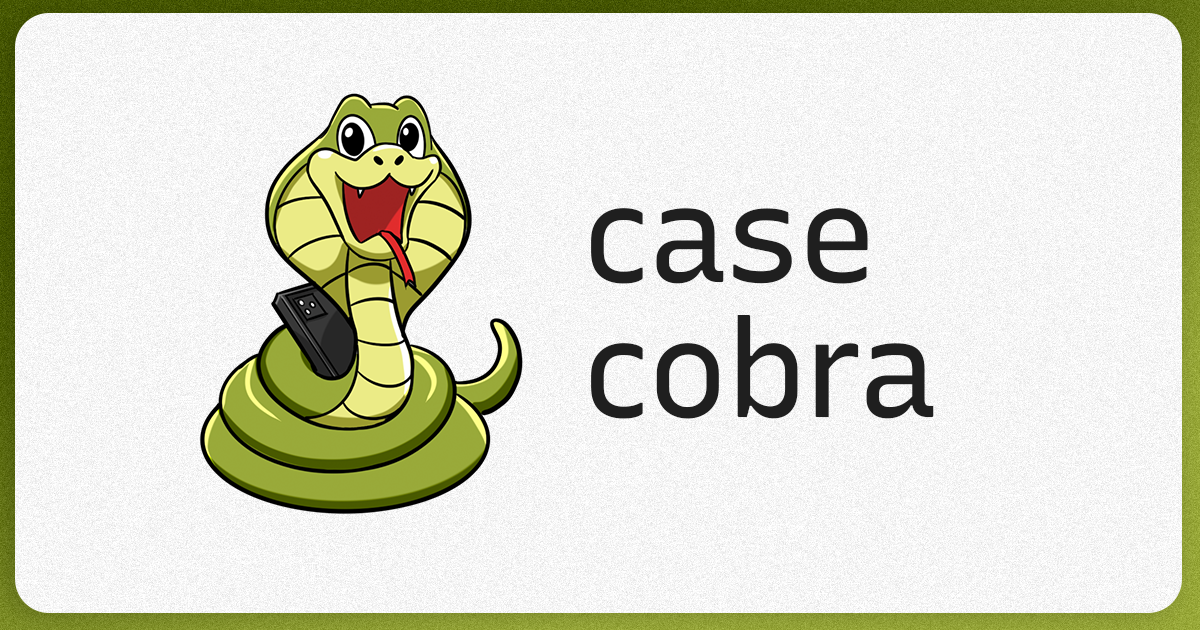
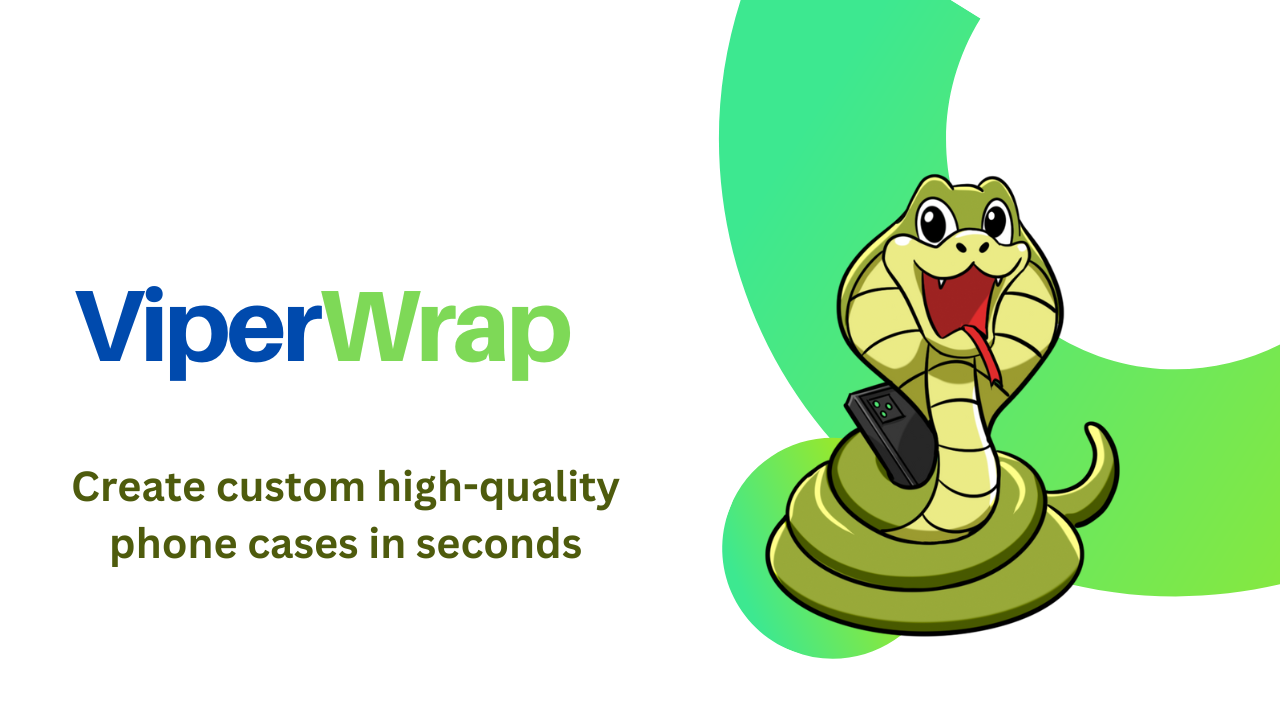
fixes and metadata for the app

diff --git a/src/app/configure/preview/DesignPreview.tsx b/src/app/configure/preview/DesignPreview.tsx
@@ -90,15 +90,15 @@ const DesignPreview = ({ configuration }: { configuration: Configuration }) => {
 
       <LoginModal isOpen={isLoginModalOpen} setIsOpen={setIsLoginModalOpen} />
 
-      <div className="mt-20 grid grid-cols-1 text-sm sm:grid-cols-12 sm:grid-rows-1 sm:gap-x-6 md:gap-x-8 lg:gap-x-12">
-        <div className="sm:col-span-4 md:col-span-3 md:row-span-2 md:row-end-2">
+      <div className="mt-20 flex flex-col items-center md:grid text-sm sm:grid-cols-12 sm:grid-rows-1 sm:gap-x-6 md:gap-x-8 lg:gap-x-12">
+        <div className="md:col-span-4 lg:col-span-3 md:row-span-2 md:row-end-2">
           <Phone
-            className={cn(`bg-${tw}`)}
+            className={cn(`bg-${tw}`, "max-w-[150px] md:max-w-full")}
             imgSrc={configuration.croppedImageUrl!}
           />
         </div>
 
-        <div className="mt-6 sm:col-span-9 sm:mt-0 md:row-end-1">
+        <div className="mt-6 sm:col-span-9 md:row-end-1">
           <h3 className="text-3xl font-bold tracking-tight text-gray-900">
             Your {modelLabel} Case
           </h3>
@@ -170,9 +170,7 @@ const DesignPreview = ({ configuration }: { configuration: Configuration }) => {
 
             <div className="mt-8 flex justify-end pb-12">
               <Button
-                onClick={() =>
-                  handleCheckout()
-                }
+                onClick={() => handleCheckout()}
                 className="px-4 sm:px-6 lg:px-8"
               >
                 Check out <ArrowRight className="h-4 w-4 ml-1.5 inline" />

diff --git a/src/lib/utils.ts b/src/lib/utils.ts
@@ -1,4 +1,5 @@
 import { type ClassValue, clsx } from "clsx";
+import { Metadata } from "next";
 import { twMerge } from "tailwind-merge";
 
 export function cn(...inputs: ClassValue[]) {
@@ -13,3 +14,32 @@ export const formatPrice = (price: number) => {
 
   return formatter.format(price);
 };
+
+export function constructMetadata({
+  title = "ViperWrap - custom high-quality phone cases",
+  description = "Create custom high-quality phone cases in seconds",
+  image = "/thumbnail.png",
+  icons = "/favicon.ico",
+}: {
+  title?: string;
+  description?: string;
+  image?: string;
+  icons?: string;
+} = {}): Metadata {
+  return {
+    title,
+    description,
+    openGraph: {
+      title,
+      description,
+      images: [{ url: image }],
+    },
+    twitter: {
+      card: "summary_large_image",
+      title,
+      description,
+      images: [image],
+    },
+    icons,
+  };
+}

diff --git a/src/app/configure/design/DesignConfigurator.tsx b/src/app/configure/design/DesignConfigurator.tsx
@@ -45,7 +45,7 @@ const DesignConfigurator = ({
   const { toast } = useToast();
   const router = useRouter();
 
-  const { mutate: saveConfig } = useMutation({
+  const { mutate: saveConfig, isPending } = useMutation({
     mutationKey: ["save-config"],
     mutationFn: async (args: SaveConfigArgs) => {
       await Promise.all([saveConfiguration(), _saveConfig(args)]);
@@ -397,6 +397,9 @@ const DesignConfigurator = ({
                 )}
               </p>
               <Button
+                isLoading={isPending}
+                disabled={isPending}
+                loadingText="Saving"
                 size="sm"
                 className="w-full"
                 onClick={() =>

diff --git a/src/app/layout.tsx b/src/app/layout.tsx
@@ -5,13 +5,11 @@ import Navbar from "@/components/Navbar";
 import Footer from "@/components/Footer";
 import { Toaster } from "@/components/ui/toaster";
 import Providers from "@/components/Providers";
+import { constructMetadata } from "@/lib/utils";
 
 const recursive = Recursive({ subsets: ["latin"] });
 
-export const metadata: Metadata = {
-  title: "Viper Wrap",
-  description: "Complete E-commerce shop for your own customised phone case",
-};
+export const metadata = constructMetadata();
 
 export default function RootLayout({
   children,
